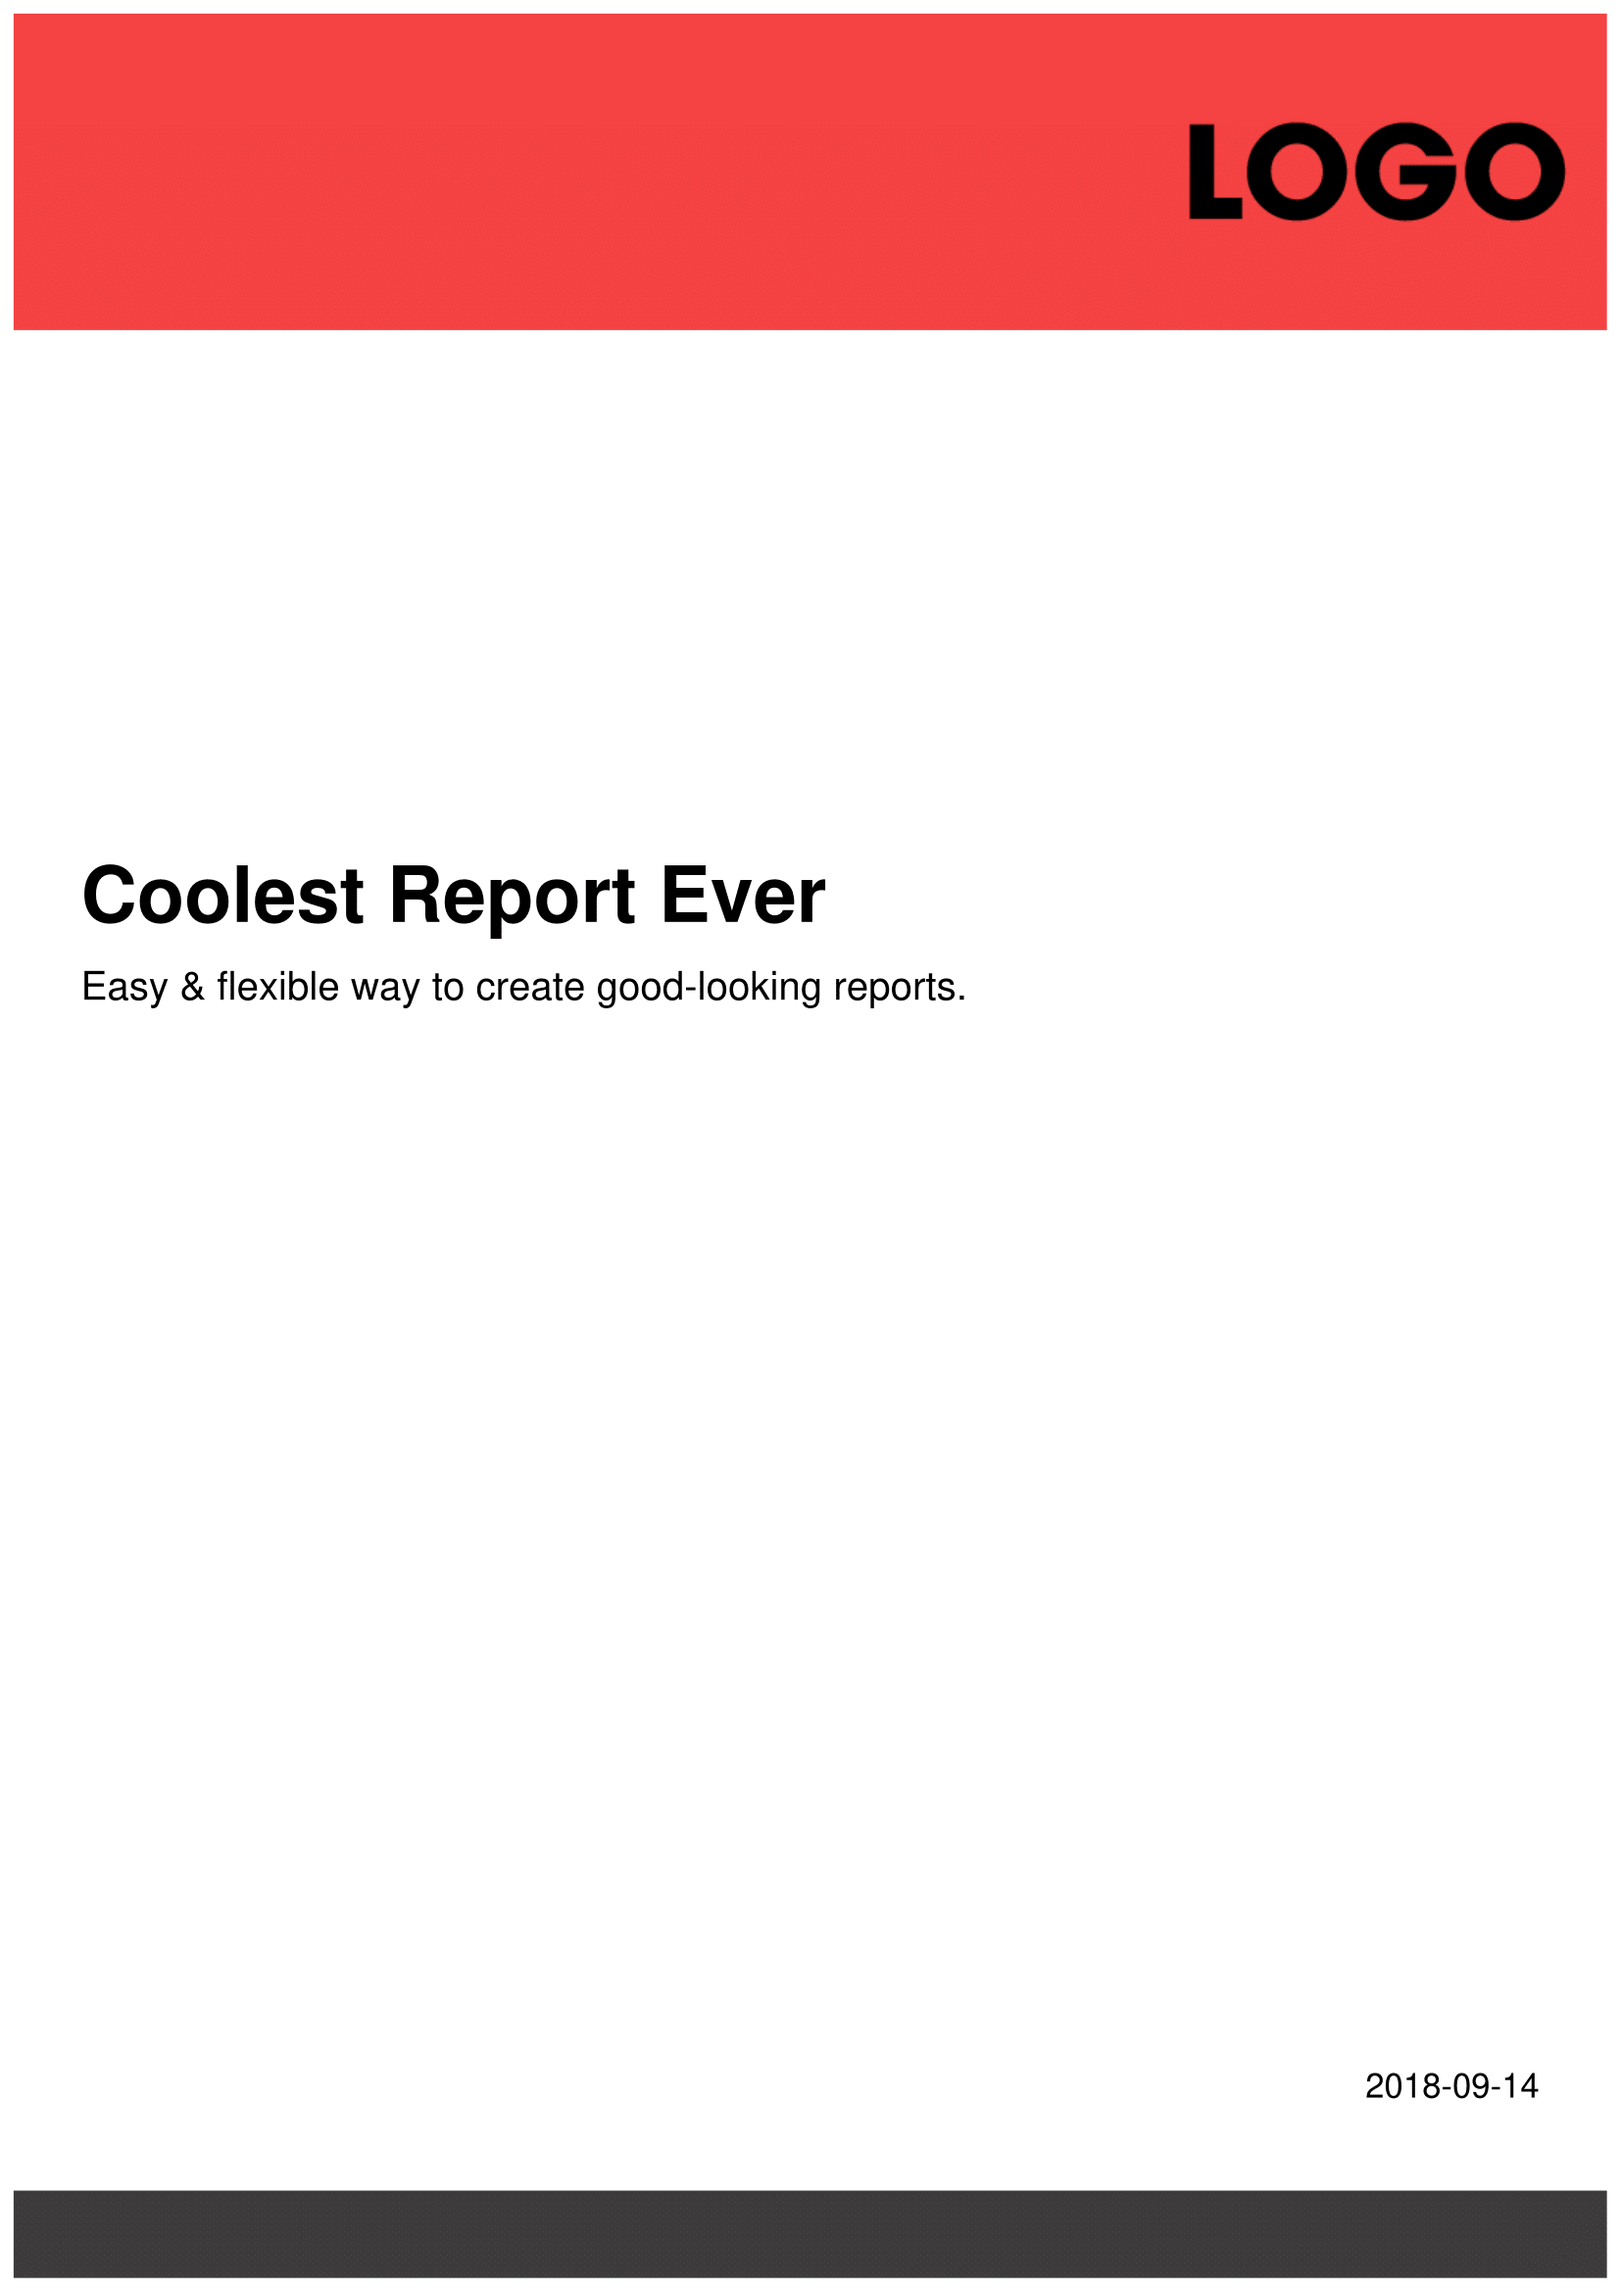
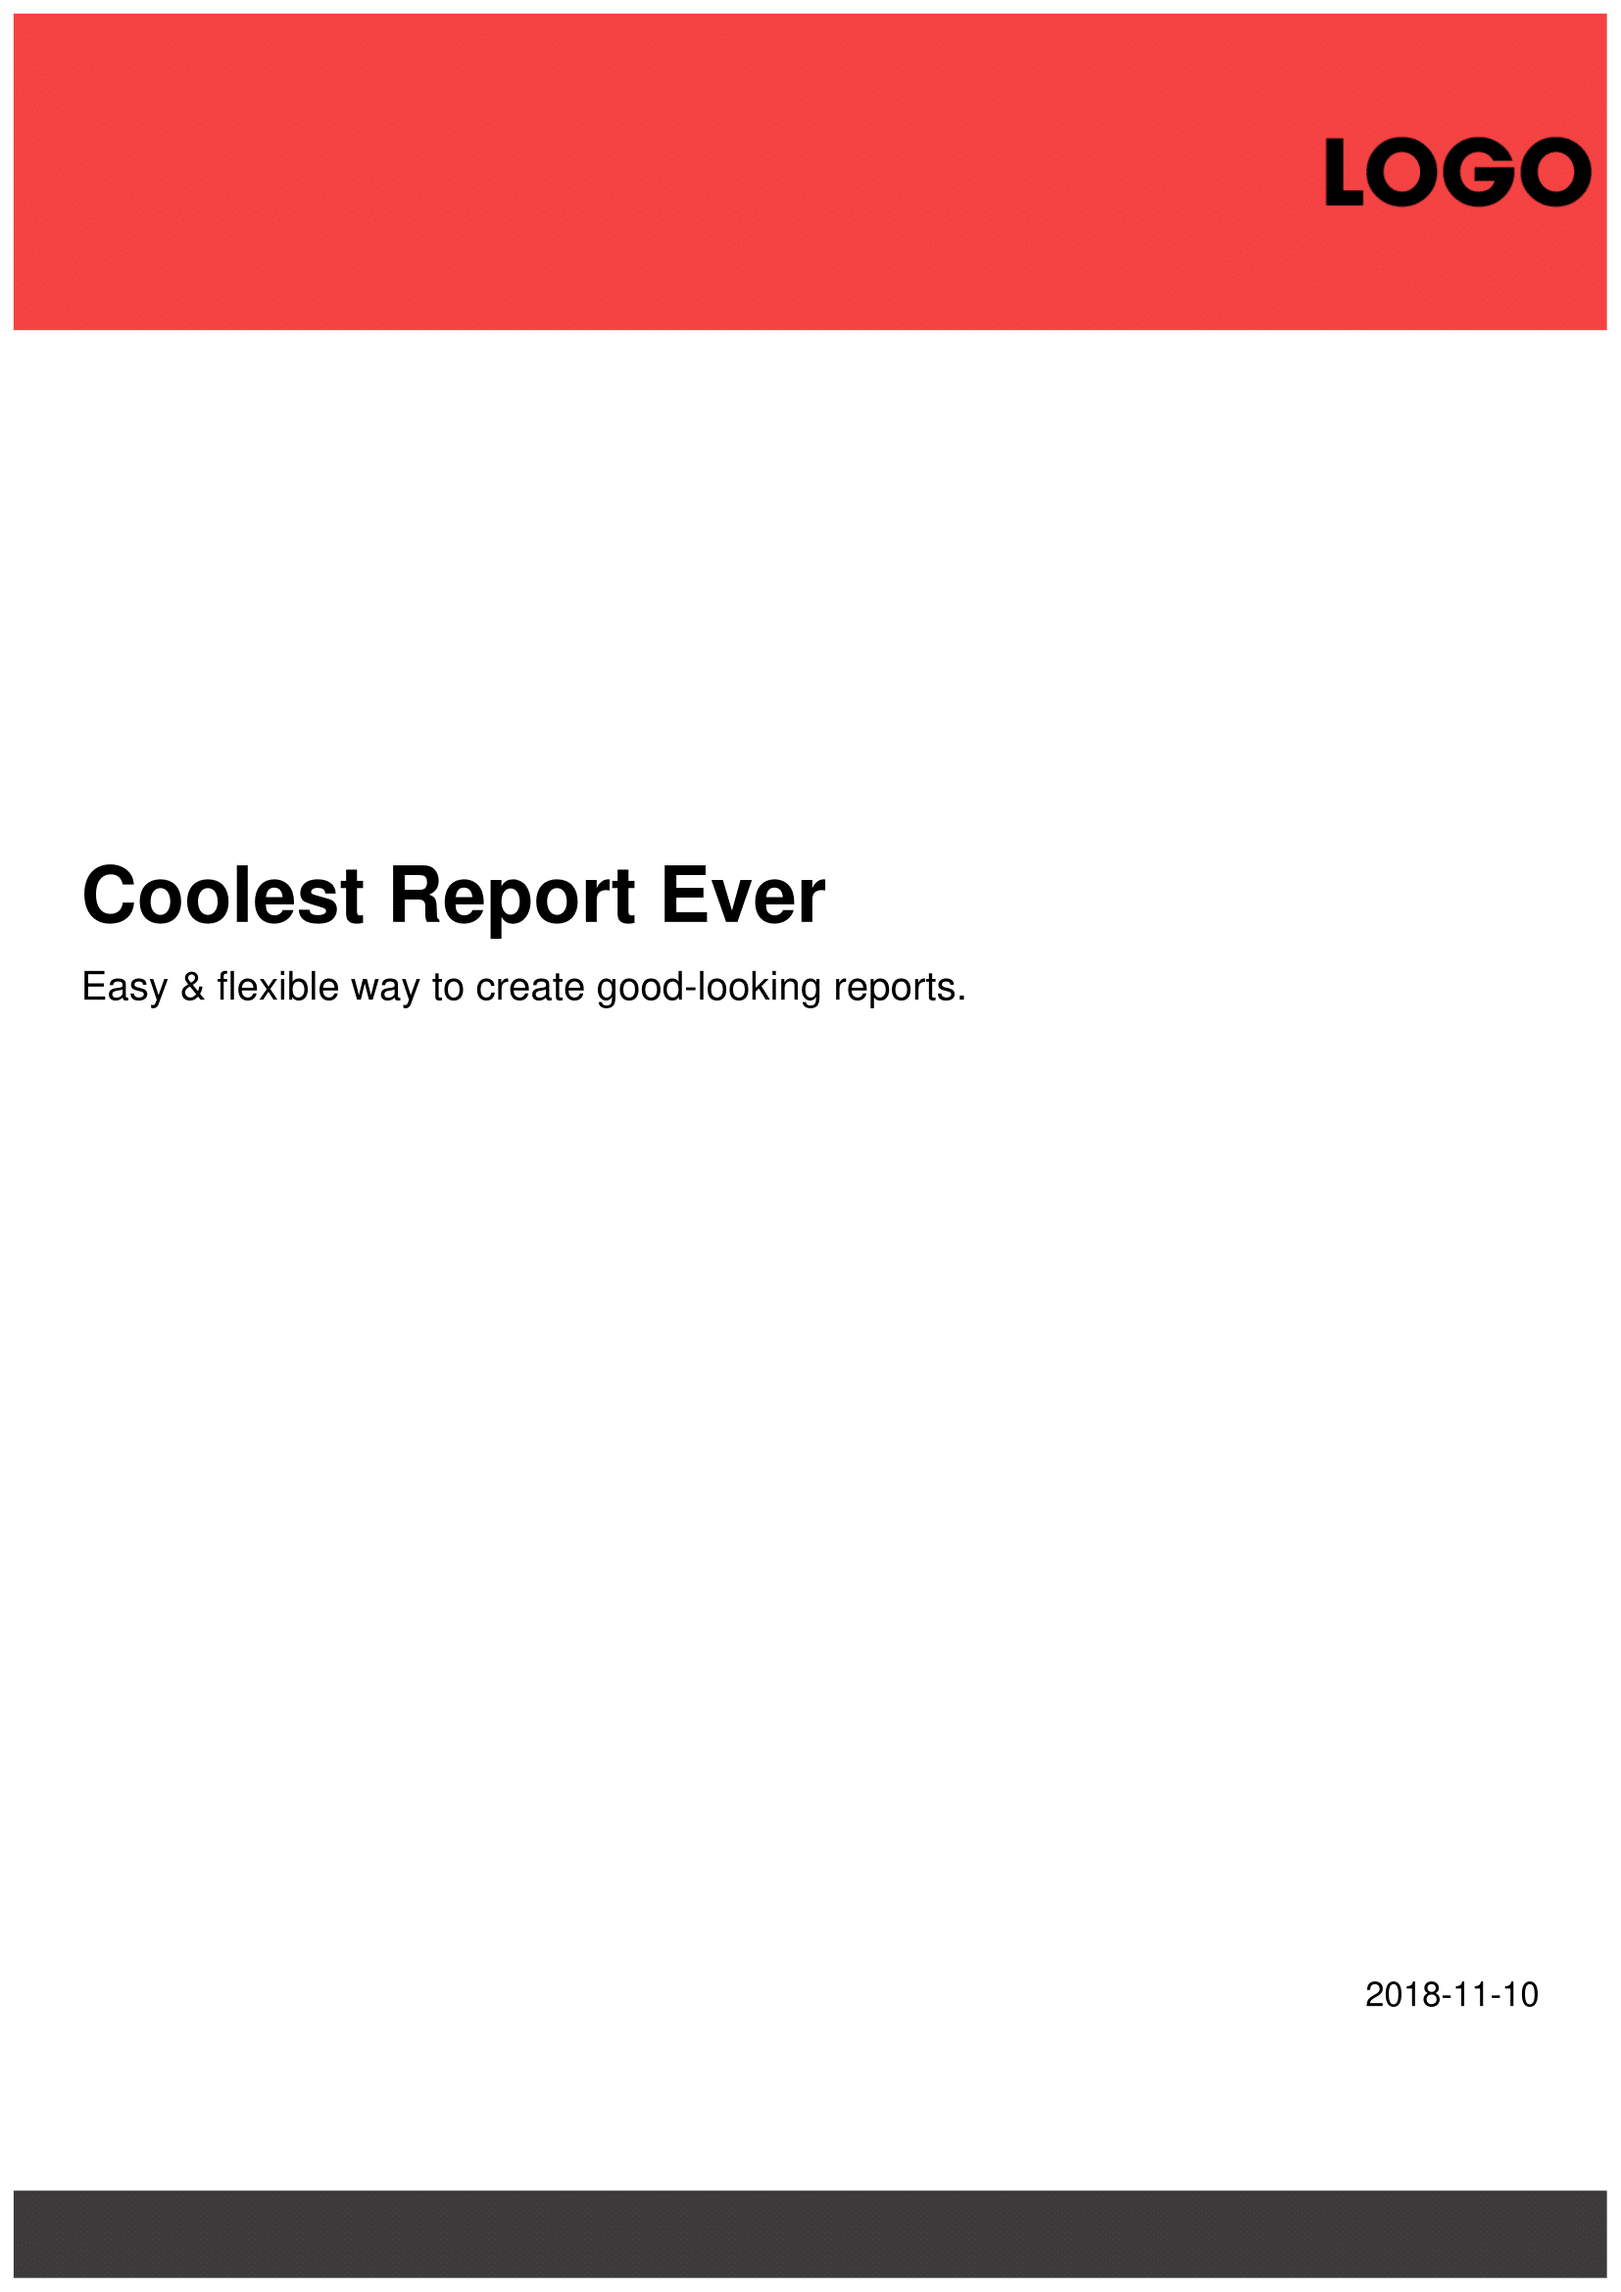
examples have been updated

Changed region(s): [[0.7092, 0.0312, 0.9867, 0.0936], [0.8325, 0.9051, 0.925, 0.9363]]

diff --git a/README.md b/README.md
@@ -8,7 +8,8 @@ Functions of the package:
 
 * `start_report()` is the first mandatory function to generate the report.
 * `add_cover_page()` function generates the cover page of the report.
-* `add_new_page()` function adds a new page to the report.
+* `add_new_page()` function adds a single page to the report.
+* `add_multiple_page()` function adds multiple pages to the report.
 * `end_report()` function generates the final output and closes the process.
 
 ## Installation
@@ -34,7 +35,7 @@ start_report() %>%
 
   add_cover_page(
     logo = sample_logo,
-    logo_size = NULL
+    logo_size = 0.3
   ) %>%
 
   add_new_page(
